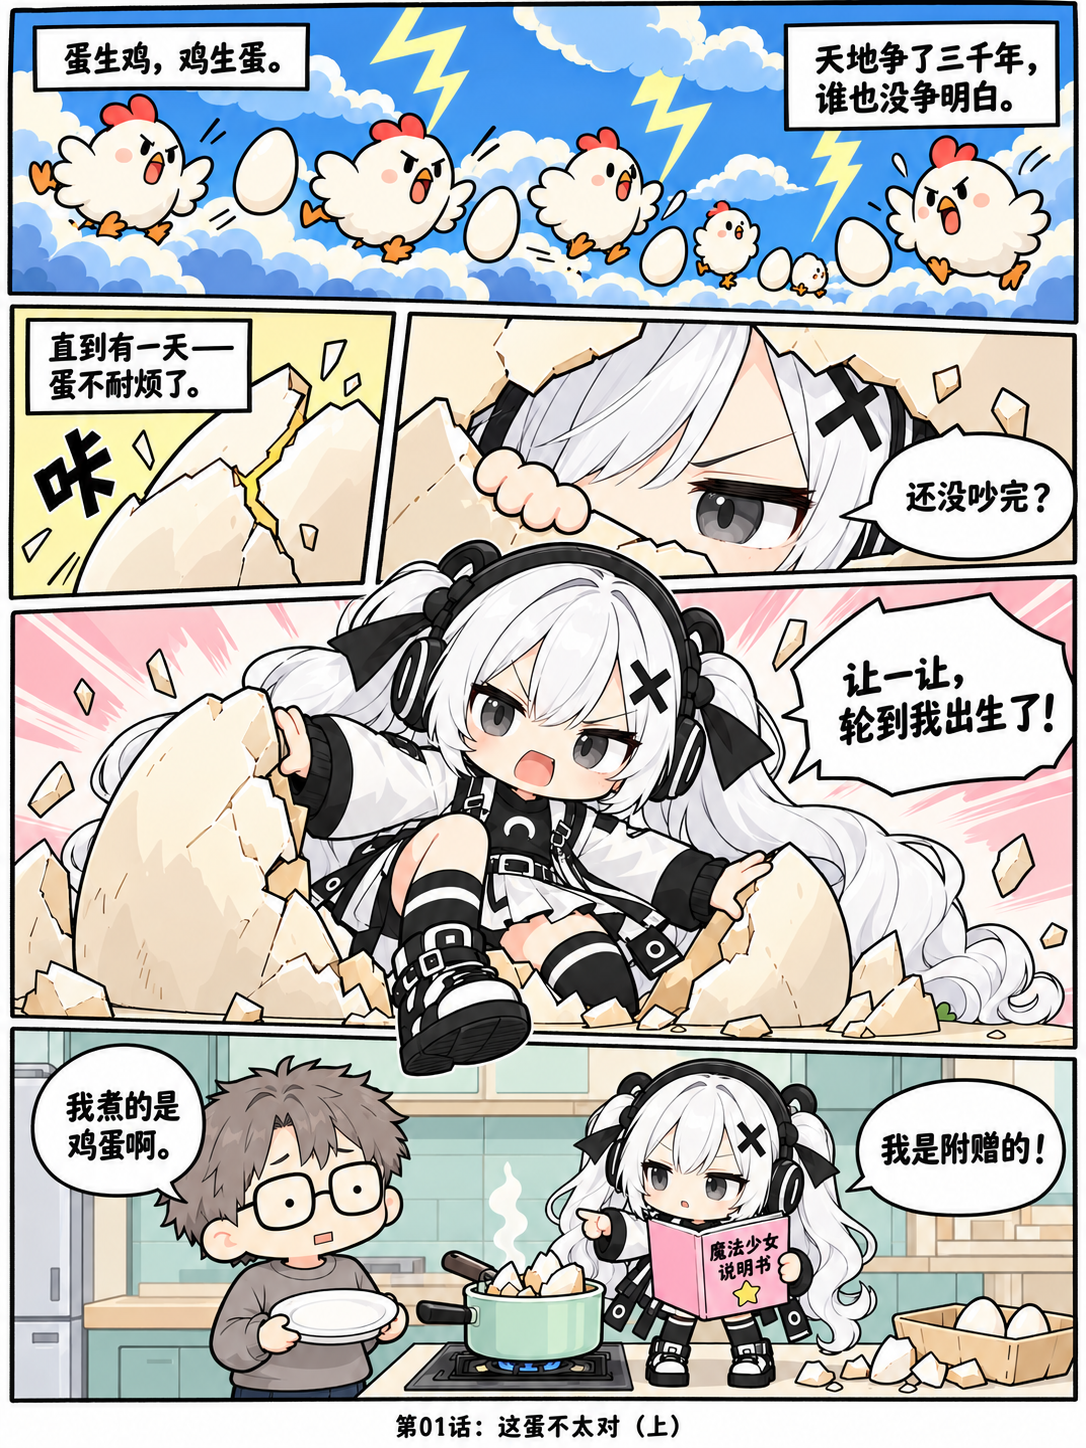
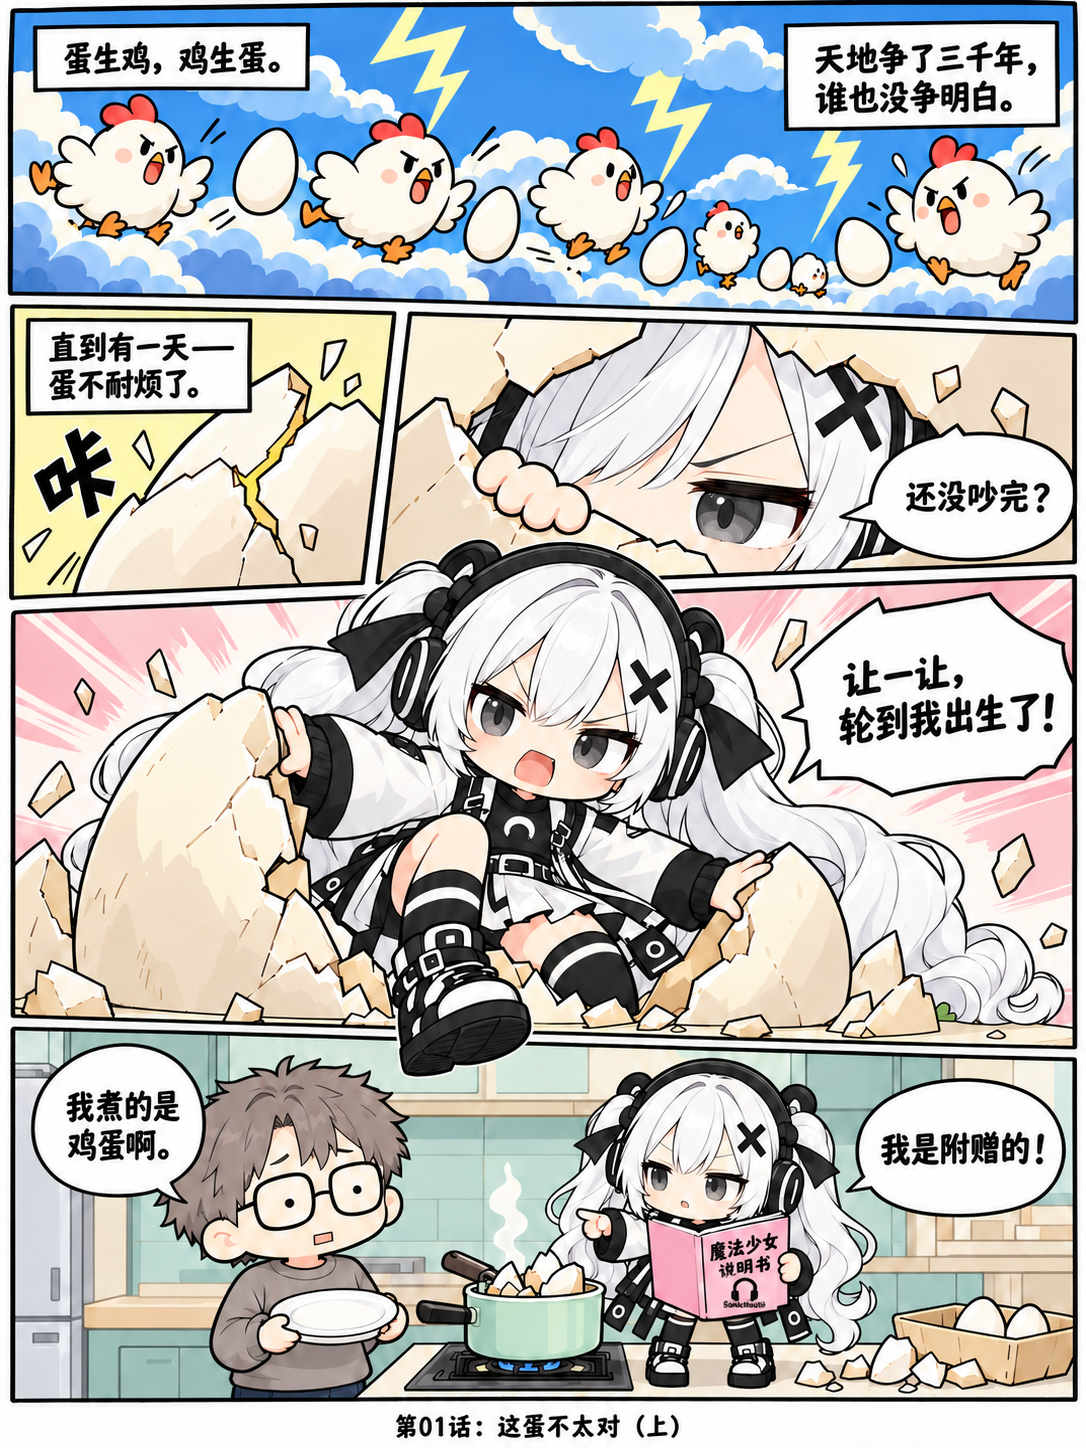
Publish chapter 01 lower half and update upper book emblem

diff --git a/README.md b/README.md
@@ -8,10 +8,19 @@
 
 | 话数 | 标题 | 更新日期 |
 | --- | --- | --- |
+| 第01话 · 下 | [这蛋不太对](comics/001-this-egg-is-not-right/README.md#下篇) | 2026-10-16 |
 | 番外01 | [真正的诞生原因](comics/extra-001-real-origin/README.md) | 2026-10-16 |
-| 第01话 · 上 | [这蛋不太对](comics/001-this-egg-is-not-right/README.md) | 2026-10-15 |
+| 第01话 · 上 | [这蛋不太对](comics/001-this-egg-is-not-right/README.md#上篇) | 2026-10-16 |
 
 ## 最新更新
+
+### 第01话：这蛋不太对（下）
+
+![第01话下篇：小跃想补偿一顿早饭，却变出了巨蛋，还让整个厨房一起冷静。](comics/001-this-egg-is-not-right/part-2.png)
+
+[独立阅读](comics/001-this-egg-is-not-right/README.md#下篇) · [查看未压缩原图](comics/001-this-egg-is-not-right/part-2.png) · [从上篇开始](comics/001-this-egg-is-not-right/README.md#上篇)
+
+## 番外
 
 ### 番外01：真正的诞生原因
 
@@ -27,4 +36,4 @@
 
 ![第01话上篇：蛋生鸡，鸡生蛋，一位神秘少女破壳登场。](comics/001-this-egg-is-not-right/part-1.png)
 
-[独立阅读](comics/001-this-egg-is-not-right/README.md) · [查看未压缩原图](comics/001-this-egg-is-not-right/part-1.png)
+[独立阅读](comics/001-this-egg-is-not-right/README.md#上篇) · [查看未压缩原图](comics/001-this-egg-is-not-right/part-1.png) · [继续阅读下篇](comics/001-this-egg-is-not-right/README.md#下篇)

diff --git a/comics/001-this-egg-is-not-right/README.md b/comics/001-this-egg-is-not-right/README.md
@@ -1,7 +1,19 @@
-# 第01话：这蛋不太对（上）
+# 第01话：这蛋不太对
 
-2026-10-15
+[上篇](#上篇) · [下篇](#下篇) · [← 连载目录](../../README.md)
+
+## 上篇
+
+2026-10-15 发布 · 2026-10-16 更新
 
 ![第01话上篇：蛋生鸡，鸡生蛋，一位神秘少女破壳登场。](part-1.png)
 
-[查看未压缩原图](part-1.png) · [← 连载目录](../../README.md)
+[查看未压缩原图](part-1.png) · [继续阅读下篇 ↓](#下篇)
+
+## 下篇
+
+2026-10-16
+
+![第01话下篇：小跃想补偿一顿早饭，却变出了巨蛋，还让整个厨房一起冷静。](part-2.png)
+
+[查看未压缩原图](part-2.png) · [↑ 返回上篇](#上篇) · [← 连载目录](../../README.md)
